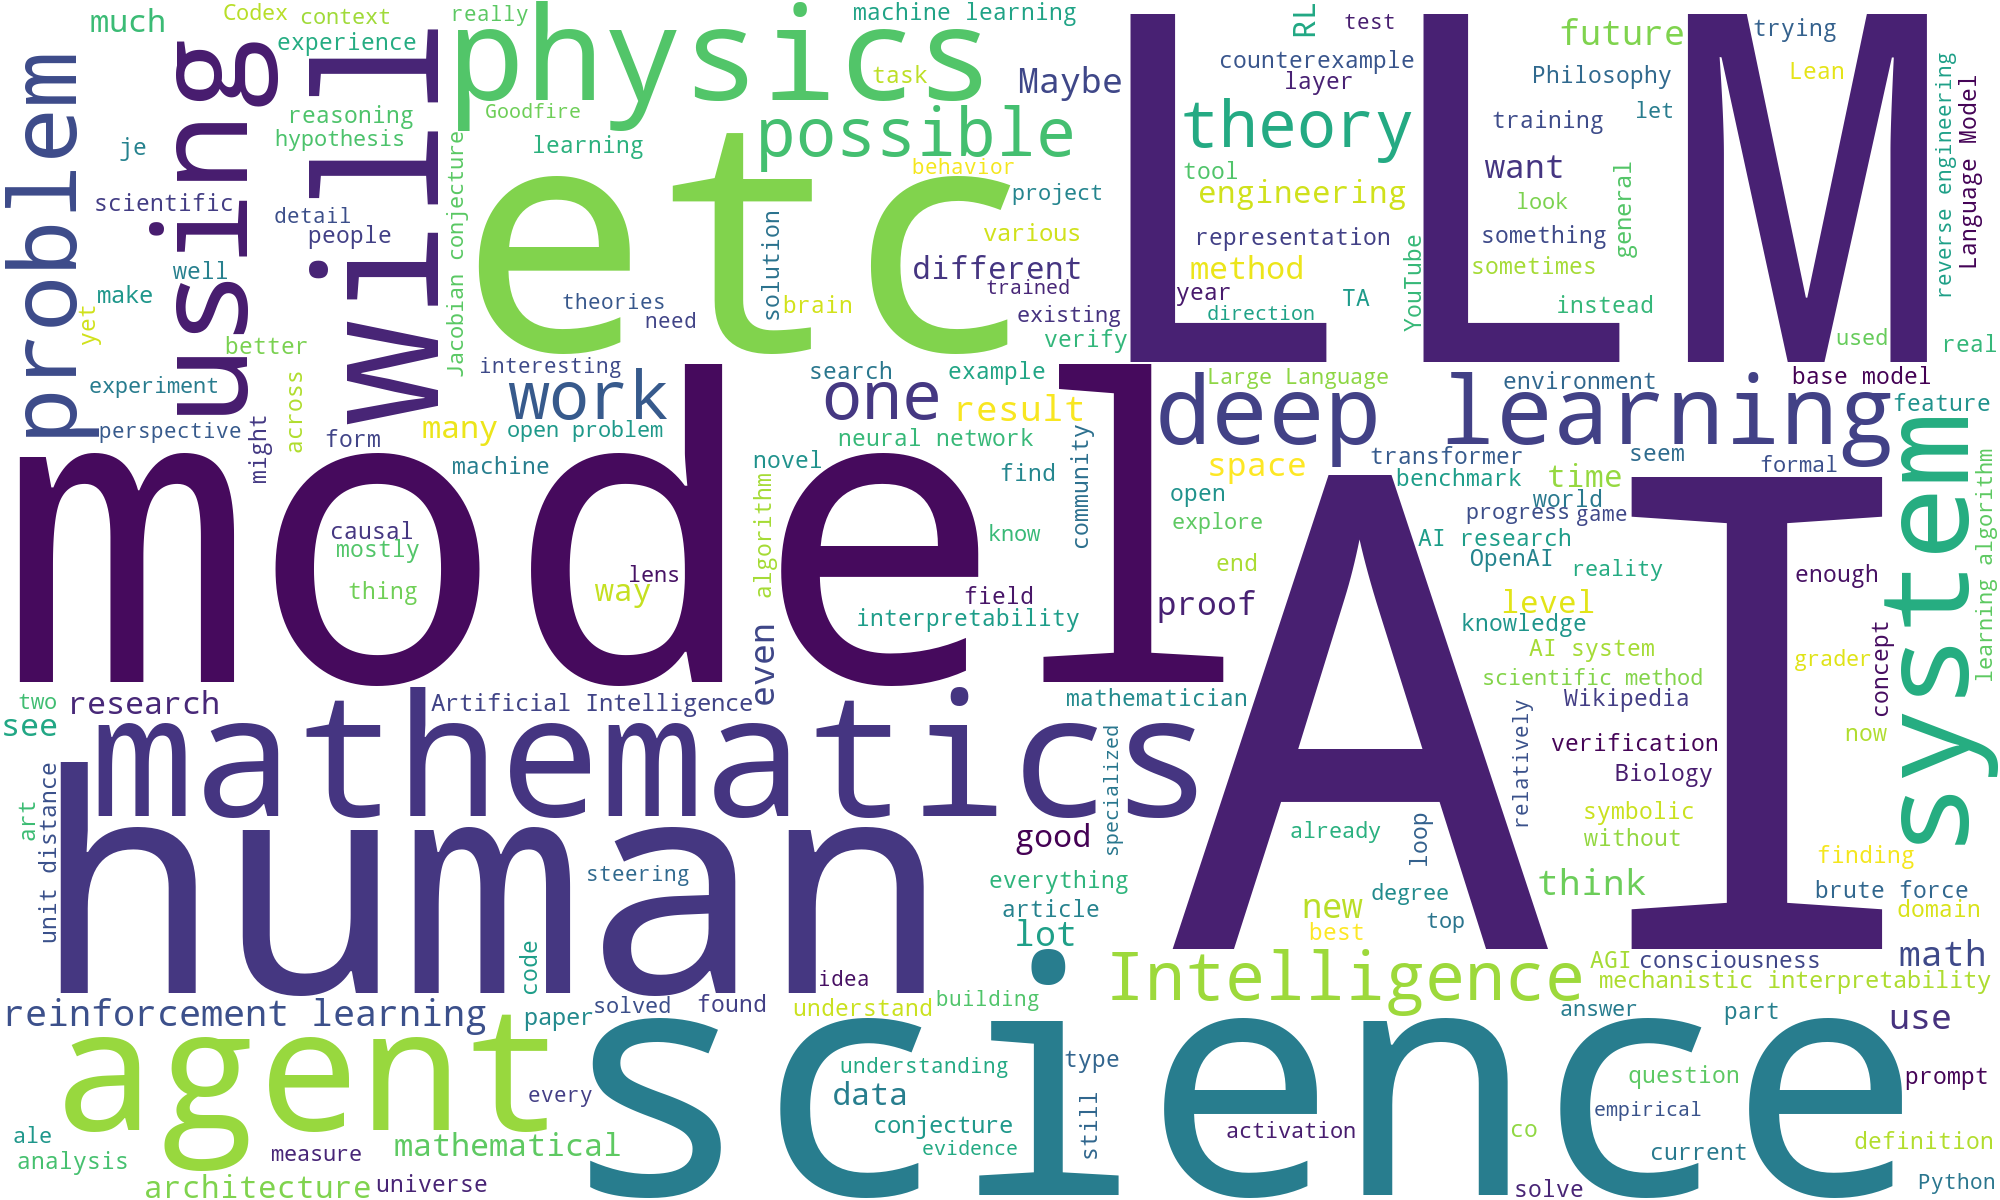
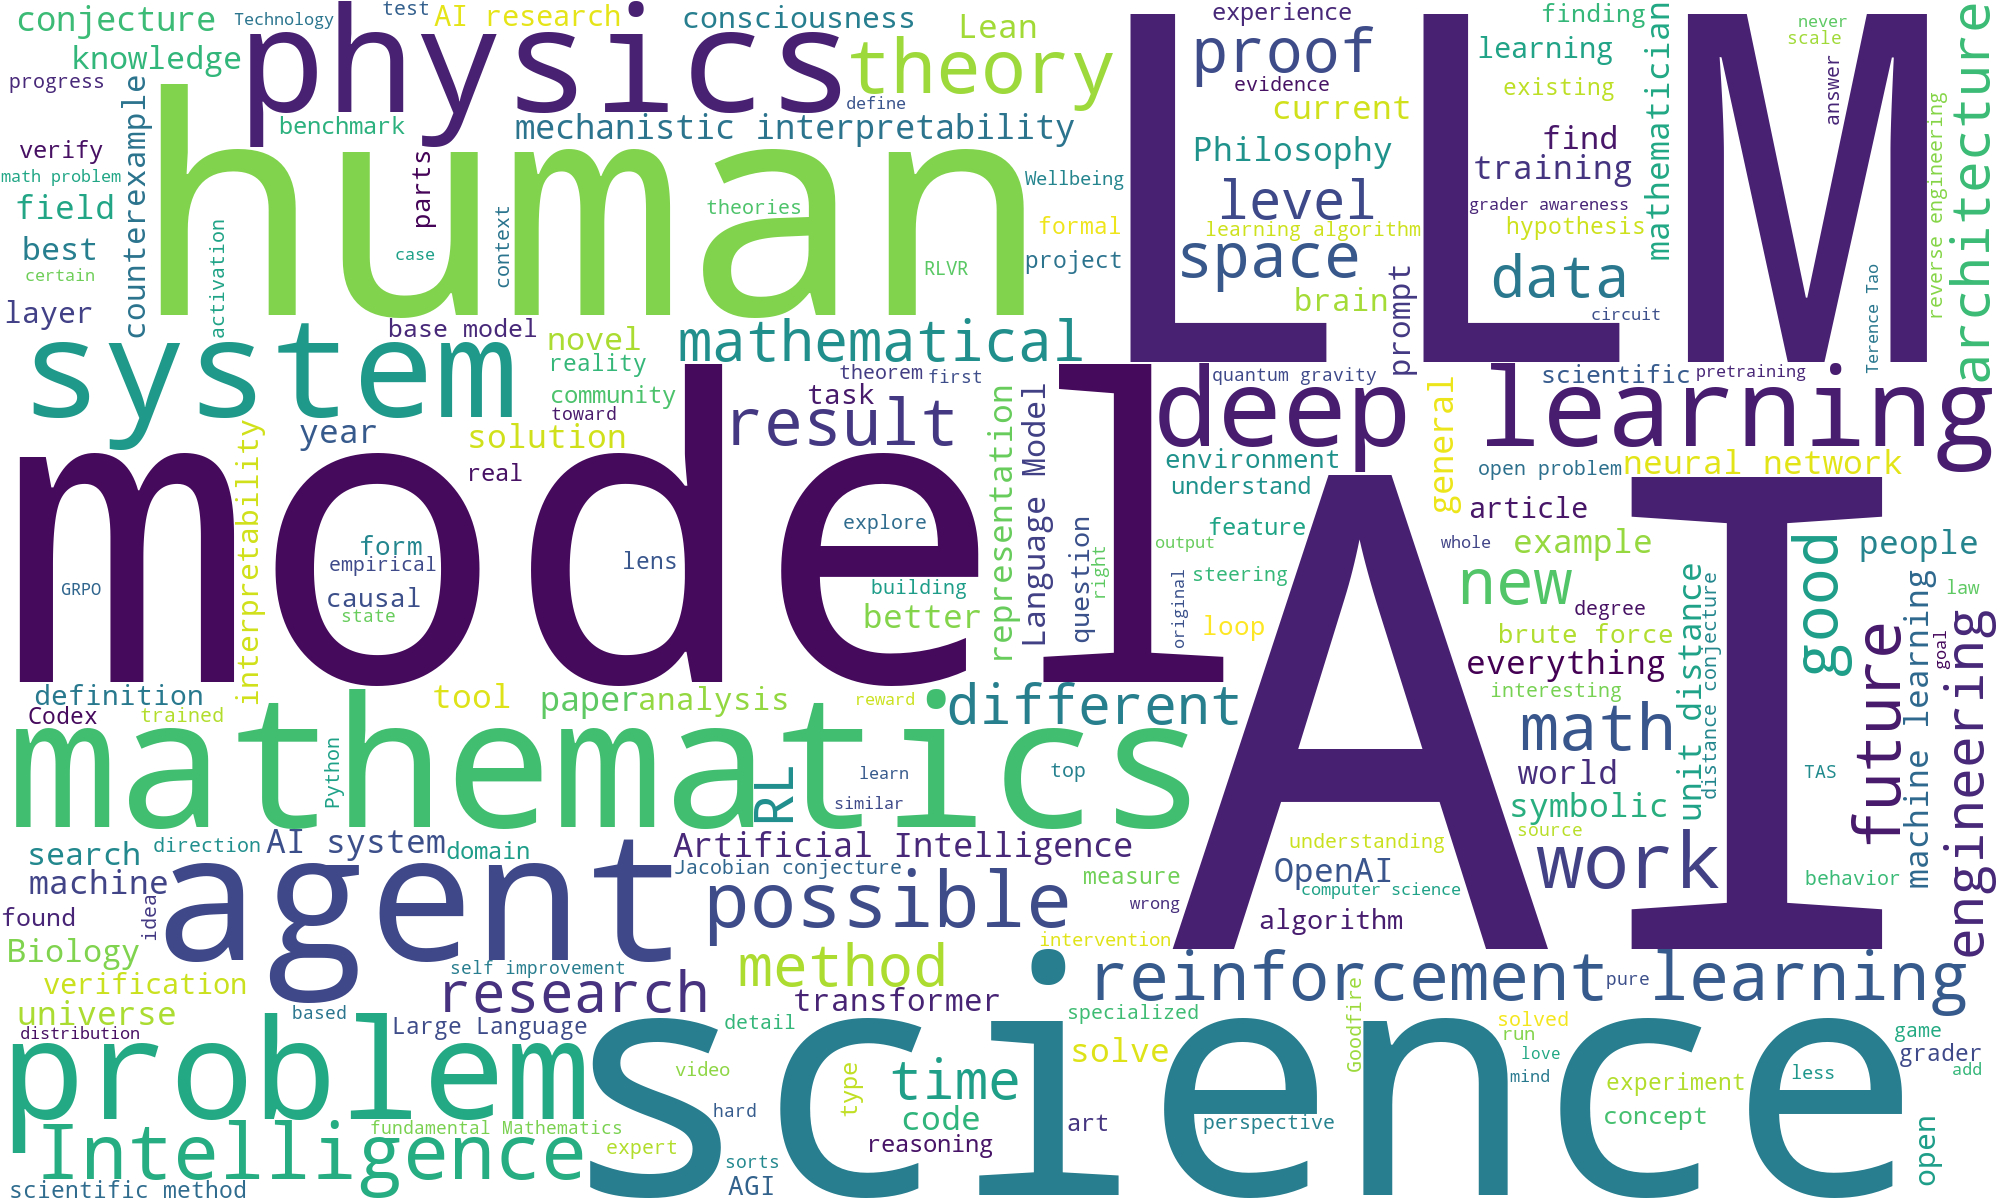
Wordcloud: word cloud of Home, Exocortex, About me and Articles notes
Generator in Wordcloud/ (uv project): strips Obsidian markup, filters English
filler (stopwords.txt) and Czech function words (stopwords-iso), renders
wordcloud.png with the wordcloud library. Includes tests, README, .env.example.

diff --git a/src/vault_wordcloud/config.py b/src/vault_wordcloud/config.py
@@ -7,9 +7,10 @@ Wordcloud/ project folder, not the shell's cwd, so `uv run vault-wordcloud` beha
 """
 
 import os
-from dataclasses import dataclass
+from dataclasses import dataclass, field
 from pathlib import Path
 
+import stopwordsiso
 from dotenv import load_dotenv
 
 # src/vault_wordcloud/config.py -> parents[2] is the Wordcloud/ project folder (pathlib: https://docs.python.org/3/library/pathlib.html#pathlib.PurePath.parents).
@@ -29,12 +30,20 @@ class Config:
     height: int
     max_words: int  # cap on words drawn (WordCloud max_words)
     random_state: int  # fixed seed -> identical layout and colours on every run
-    extra_stopwords: set[str]  # added on top of wordcloud.STOPWORDS
+    # Added on top of wordcloud.STOPWORDS: stopwords.txt + stopwords-iso lists. repr=False keeps ~450 words out of the
+    # logged config (dataclass field options: https://docs.python.org/3/library/dataclasses.html#dataclasses.field).
+    extra_stopwords: set[str] = field(repr=False)
 
 
 def _csv(name: str, default: str) -> list[str]:
     """Read a comma-separated env var into a list of trimmed, non-empty items."""
     return [item.strip() for item in os.getenv(name, default).split(",") if item.strip()]
+
+
+def _wordlist(path: Path) -> set[str]:
+    """Read one lowercase word per line, ignoring blank lines and '#' comments."""
+    lines = (line.split("#", 1)[0].strip().lower() for line in path.read_text(encoding="utf-8").splitlines())
+    return {line for line in lines if line}
 
 
 def load_config() -> Config:
@@ -50,5 +59,8 @@ def load_config() -> Config:
         height=int(os.getenv("HEIGHT", "1200")),
         max_words=int(os.getenv("MAX_WORDS", "200")),
         random_state=int(os.getenv("RANDOM_STATE", "42")),
-        extra_stopwords={w.lower() for w in _csv("EXTRA_STOPWORDS", "")},
+        # Some Articles are partly Czech, so Czech function words (je, ale, co...) are filtered via stopwords-iso
+        # (https://github.com/stopwords-iso/stopwords-cs, Python wrapper https://github.com/bact/stopwords-iso).
+        extra_stopwords=_wordlist(PROJECT_DIR / os.getenv("STOPWORDS_FILE", "stopwords.txt"))
+        | stopwordsiso.stopwords(_csv("STOPWORD_LANGS", "cs")),
     )

diff --git a/tests/test_config.py b/tests/test_config.py
@@ -1,0 +1,20 @@
+"""Tests for load_config: defaults point at the real vault notes and the stopword sources are merged.
+
+Global context: these read the real Wordcloud/stopwords.txt and the stopwords-iso Czech list, so they
+catch a broken path or a dropped language before a run produces a cloud full of "je"/"ale" or "Wikipedia".
+"""
+
+from vault_wordcloud.config import load_config
+
+
+def test_default_sources_exist_in_vault():
+    config = load_config()
+    assert all((config.vault_dir / name).is_file() for name in config.source_files)
+    assert all((config.vault_dir / folder).is_dir() for folder in config.source_dirs)
+
+
+def test_stopwords_merge_file_and_czech_list():
+    words = load_config().extra_stopwords
+    assert {"wikipedia", "etc"} <= words  # from stopwords.txt
+    assert {"je", "ale"} <= words  # from stopwordsiso.stopwords("cs")
+    assert "#" not in "".join(words)  # comments are stripped

diff --git a/src/vault_wordcloud/logs.py b/src/vault_wordcloud/logs.py
@@ -13,6 +13,10 @@ from pathlib import Path
 
 def setup_logging(log_dir: Path) -> Path:
     """Send INFO+ records to stdout and a fresh timestamped file; return that file's path."""
+    # Windows consoles default to cp1252, which can't print Czech note names/words; switch stdout to UTF-8
+    # (https://docs.python.org/3/library/io.html#io.TextIOWrapper.reconfigure). pytest's capture stream lacks reconfigure.
+    if hasattr(sys.stdout, "reconfigure"):
+        sys.stdout.reconfigure(encoding="utf-8", errors="replace")
     log_dir.mkdir(parents=True, exist_ok=True)
     log_file = log_dir / f"run_{datetime.now():%Y%m%d_%H%M%S}.log"
     logging.basicConfig(

diff --git a/src/vault_wordcloud/main.py b/src/vault_wordcloud/main.py
@@ -21,7 +21,7 @@ log = logging.getLogger(__name__)
 def run(config: Config) -> dict[str, int]:
     """Run all phases for one config and return the word counts the cloud was drawn from."""
     log_file = setup_logging(config.log_dir)
-    log.info("Config: %s", config)
+    log.info("Config: %s (+%d extra stopwords)", config, len(config.extra_stopwords))
     paths = collect_sources(config.vault_dir, config.source_files, config.source_dirs)
     log.info("Collected %d notes", len(paths))
     text = "\n\n".join(clean_markdown(note) for note in read_notes(paths, config.vault_dir))

diff --git a/README.md b/README.md
@@ -1,0 +1,70 @@
+# Vault word cloud
+
+A word cloud of the core writing on this site: [[Home]], [[Exocortex]], [[About me and my experience]] and every note in [[Articles]] (28 notes, ~270k characters after cleaning). Word size is proportional to how often the word appears, after Obsidian markup, URLs and filler words are removed.
+
+![Word cloud of Home, Exocortex, About me and Articles](wordcloud.png)
+
+**What stands out:** *AI* (336 mentions) is the largest word by a wide margin, followed by *LLM* (160), *model* (158), *science* (123), *human* (107), *mathematics* (103), *agent* (99) and *physics* (93). Multi-word terms the library detected as collocations include *deep learning* (82), *reinforcement learning* (74) and *mechanistic interpretability* (49). The exact top-30 list with counts is written to each run log.
+
+## How it works
+
+```mermaid
+flowchart LR
+    A["Vault notes<br/>Home, Exocortex, About me,<br/>Articles/*.md"] -->|sources.py<br/>collect + read| B[raw markdown]
+    B -->|clean.py<br/>strip frontmatter, embeds,<br/>links, URLs, HTML| C[plain prose]
+    C -->|render.py<br/>WordCloud.process_text| D["word counts<br/>(stopwords, plurals, bigrams)"]
+    D -->|generate_from_frequencies<br/>+ to_file| E[wordcloud.png]
+    F[".env + stopwords.txt<br/>+ stopwords-iso cs"] -->|config.py| B & D
+```
+
+1. **Collect** (`sources.py`): the three listed notes plus the top-level `*.md` files of `Articles/`. A missing listed note raises an error rather than being skipped quietly.
+2. **Clean** (`clean.py`): removes YAML frontmatter, code fences, image embeds (`![[…]]`, `![](…)`), bare URLs and HTML. Wikilinks become their visible text (`[[Home|exocortex]]` → *exocortex*), markdown links keep only their text, and typographic `’` becomes `'` so contractions match the stopword list.
+3. **Count and draw** (`render.py`): [`wordcloud`](https://github.com/amueller/word_cloud) tokenizes, drops stopwords, numbers and one-letter tokens, merges plurals, and keeps strong bigrams. It then lays out the 200 most frequent terms on a 2000×1200 canvas with a fixed seed, so every run produces the same image.
+4. **Log** (`logs.py`): every step is timestamped to the terminal and to `logs/run_<timestamp>.log`.
+
+`main.py` is the thin wrapper that runs these phases in order.
+
+### Stopwords
+Hidden words come from three sources:
+- `wordcloud.STOPWORDS`: the library's English list.
+- [`stopwords.txt`](stopwords.txt): link-title labels (*Wikipedia*, *YouTube*, added by the auto-link-title plugin) and English filler (*etc*, *will*, *maybe*, …). It was chosen by reading the top-200 terms of the first run.
+- The [stopwords-iso Czech list](https://github.com/stopwords-iso/stopwords-cs), because three Articles are partly in Czech. Without it, *je* ("is"), *co* ("what") and *ale* ("but") would rank 52nd, 76th and 122nd and appear in the cloud.
+
+**Known limitation:** the Czech list also contains a few English words. The only one that occurs in these notes as English content is *design* (7 mentions). It is hidden, but the 200th word in the cloud has 15 mentions, so *design* wouldn't make the cut anyway.
+
+## Usage
+
+Requires [uv](https://docs.astral.sh/uv/). From this `Wordcloud/` folder:
+
+```bash
+uv sync
+```
+
+```bash
+uv run vault-wordcloud
+```
+
+```bash
+uv run pytest
+```
+
+`uv sync` creates the local `.venv`. `uv run vault-wordcloud` regenerates `wordcloud.png` (about 7 s) and `uv run pytest` runs the tests. To change sources, size, word count or stopword languages, copy `.env.example` to `.env` and edit it; every key is optional. To hide more words, add them to `stopwords.txt`. Plurals need their own line, because wordcloud drops stopwords *before* merging plurals.
+
+## Features and technologies
+- [`wordcloud`](https://github.com/amueller/word_cloud) 1.9.6 for tokenizing, collocations and layout ([API](https://amueller.github.io/word_cloud/generated/wordcloud.WordCloud.html))
+- [`stopwordsiso`](https://github.com/bact/stopwords-iso) for non-English stopwords
+- [`python-dotenv`](https://github.com/theskumar/python-dotenv) for `.env` config
+- [uv](https://docs.astral.sh/uv/) for the project and lockfile, and [pytest](https://docs.pytest.org/) for tests (cleaning rules, config, and an end-to-end run on a temporary vault)
+- Obsidian syntax handled per the [internal links](https://help.obsidian.md/Linking+notes+and+files/Internal+links) and [embeds](https://help.obsidian.md/Linking+notes+and+files/Embed+files) docs
+
+## Files
+| Path | Purpose |
+|---|---|
+| `src/vault_wordcloud/main.py` | wrapper that runs the phases in order |
+| `src/vault_wordcloud/{config,sources,clean,render,logs}.py` | one module per phase |
+| `tests/` | `test_clean.py`, `test_config.py`, `test_pipeline.py` |
+| `stopwords.txt` | editable extra stopword list |
+| `.env.example` | all config keys with defaults |
+| `wordcloud.png` | the generated image |
+
+`.venv/`, `logs/` and `.env` are gitignored, so the vault's auto-backup does not commit them.
